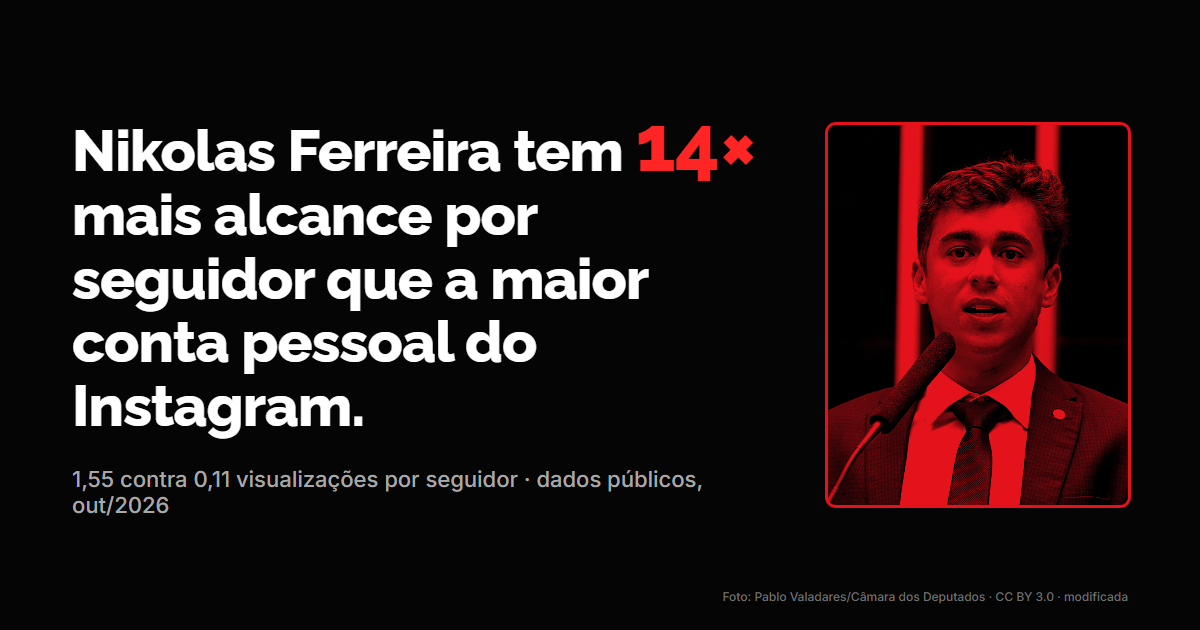
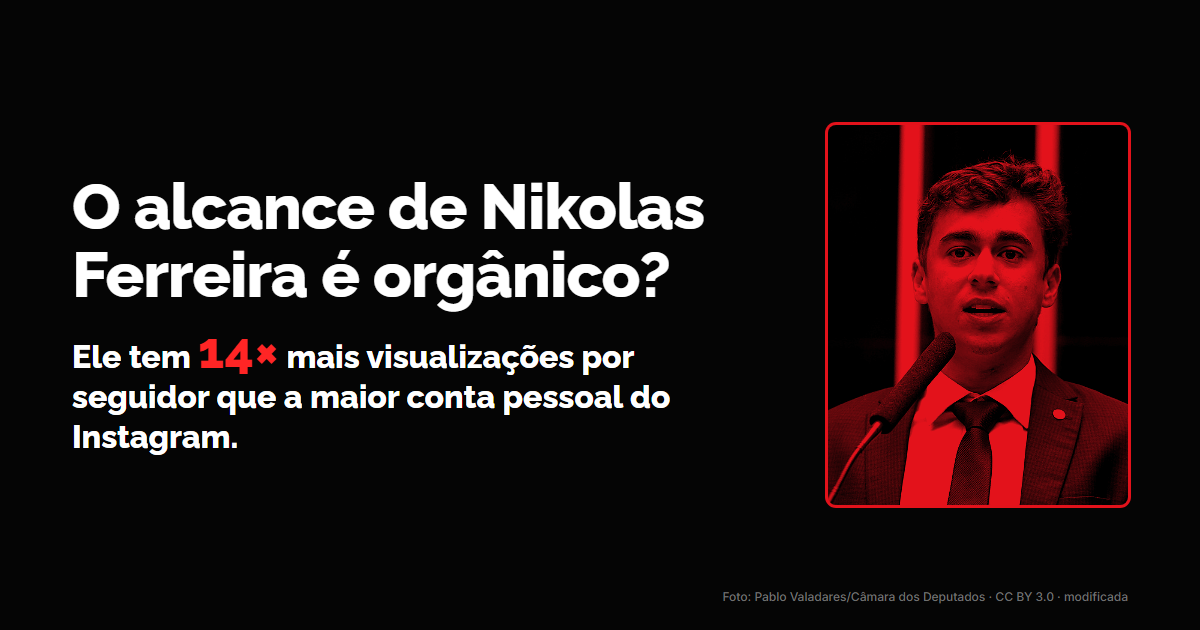
Manchete em pergunta + seção Contexto
- Topo: "O alcance de Nikolas Ferreira é orgânico?" com o 14× na linha fina
- Seção Contexto com Estadão (20/10) e g1 (19/10), antes de Como interpretar
- Como interpretar abre com a resposta curta
- Metodologia cita o incidente de contagem de visualizações de 7/10
- Imagem de compartilhamento e meta tags com a pergunta

Changed region(s): [[0.0617, 0.181, 0.6475, 0.8143]]

diff --git a/landing/index.html b/landing/index.html
@@ -3,27 +3,27 @@
 <head>
   <meta charset="utf-8">
   <meta name="viewport" content="width=device-width, initial-scale=1">
-  <title>Nikolas Ferreira tem 14× mais alcance por seguidor que a maior conta pessoal do Instagram.</title>
-  <meta name="description" content="Cristiano Ronaldo tem 680 milhões de seguidores, e o vídeo típico dele chega a 74 milhões de visualizações. Nikolas tem 24,7 milhões e chega a 38 milhões.">
+  <title>O alcance de Nikolas Ferreira é orgânico?</title>
+  <meta name="description" content="Ele tem 14× mais visualizações por seguidor que a maior conta pessoal do Instagram. Análise independente de dados públicos do Instagram.">
   <meta property="og:type" content="article">
   <meta property="og:locale" content="pt_BR">
-  <meta property="og:title" content="Nikolas Ferreira tem 14× mais alcance por seguidor que a maior conta pessoal do Instagram.">
-  <meta property="og:description" content="Cristiano Ronaldo tem 680 milhões de seguidores, e o vídeo típico dele chega a 74 milhões de visualizações. Nikolas tem 24,7 milhões e chega a 38 milhões.">
+  <meta property="og:title" content="O alcance de Nikolas Ferreira é orgânico?">
+  <meta property="og:description" content="Ele tem 14× mais visualizações por seguidor que a maior conta pessoal do Instagram. Com 27 vezes menos seguidores, ele chega à metade das visualizações de Cristiano Ronaldo.">
   <meta property="og:url" content="https://edurohr1.github.io/AlgoDeErrado/landing/">
   <meta property="og:image" content="https://edurohr1.github.io/AlgoDeErrado/landing/img/og.png">
   <meta property="og:image:width" content="1200">
   <meta property="og:image:height" content="630">
-  <meta property="og:image:alt" content="Nikolas Ferreira tem 14× mais alcance por seguidor que a maior conta pessoal do Instagram.">
+  <meta property="og:image:alt" content="O alcance de Nikolas Ferreira é orgânico? Ele tem 14× mais visualizações por seguidor que a maior conta pessoal do Instagram.">
   <meta name="twitter:card" content="summary_large_image">
-  <meta name="twitter:title" content="Nikolas Ferreira tem 14× mais alcance por seguidor que a maior conta pessoal do Instagram.">
-  <meta name="twitter:description" content="Cristiano Ronaldo tem 680 milhões de seguidores, e o vídeo típico dele chega a 74 milhões de visualizações. Nikolas tem 24,7 milhões e chega a 38 milhões.">
+  <meta name="twitter:title" content="O alcance de Nikolas Ferreira é orgânico?">
+  <meta name="twitter:description" content="Ele tem 14× mais visualizações por seguidor que a maior conta pessoal do Instagram.">
   <meta name="twitter:image" content="https://edurohr1.github.io/AlgoDeErrado/landing/img/og.png">
   <link rel="canonical" href="https://edurohr1.github.io/AlgoDeErrado/landing/">
   <meta name="color-scheme" content="light">
   <link rel="preconnect" href="https://fonts.googleapis.com">
   <link rel="preconnect" href="https://fonts.gstatic.com" crossorigin>
   <link rel="stylesheet" href="https://fonts.googleapis.com/css2?family=Inter:wght@400;500;600;700&family=Raleway:wght@700;800&display=swap">
-  <link rel="stylesheet" href="style.css?v=202610202223">
+  <link rel="stylesheet" href="style.css?v=202610202237">
 </head>
 <body>
   <header class="cabecalho" id="cabecalho">
@@ -33,12 +33,11 @@
       <button class="menu-botao" id="menuBotao" type="button" aria-expanded="false" aria-controls="menu" aria-label="Abrir menu"><span></span><span></span><span></span></button>
       <nav class="menu" id="menu" aria-label="Seções">
         <a href="#achadosSecao">Resultados</a>
-        <a href="#perspectiva">Perspectiva</a>
         <a href="#interacao">Interação</a>
         <a href="#regularidade">Regularidade</a>
         <a href="#famosos">Famosos</a>
-        <a href="#secIdade">Idade dos vídeos</a>
         <a href="#pistas">Pistas</a>
+        <a href="#contexto">Contexto</a>
         <a href="#interpretar">Como interpretar</a>
         <a href="#metodologia">Metodologia</a>
       </nav>
@@ -51,7 +50,8 @@
     <div class="wrap hero-grade">
       <div class="hg-titulo">
         <p class="eyebrow">Análise de dados · Instagram · out/2026</p>
-        <h1 id="titulo">Nikolas Ferreira tem 14× mais alcance por seguidor que a maior conta pessoal do Instagram.</h1>
+        <h1 id="titulo">O alcance de Nikolas Ferreira é orgânico?</h1>
+        <p class="hero-linha" id="heroLinha">Ele tem 14× mais visualizações por seguidor que a maior conta pessoal do Instagram.</p>
         <p class="hero-gancho" id="heroGancho"></p>
         <p class="hero-sub" id="heroSub"></p>
       </div>
@@ -201,8 +201,16 @@
       <details class="regras"><summary>Como o tom foi classificado</summary><p>Classificação automática por palavras-chave e emojis, na ordem: <strong>crítica</strong> (linguagem negativa ou ofensiva, nem sempre dirigida ao dono do perfil) → <strong>apoio</strong> (elogios, agradecimentos, emojis como 🙏👏❤🇧🇷) → <strong>pergunta</strong> (tem “?”) → <strong>neutro</strong>. Comentários com 20+ caracteres que aparecem idênticos 2 ou mais vezes na amostra do perfil contam como <strong>repetitivos</strong> (copia-e-cola). A amostra são os ~15 comentários mais recentes de cada vídeo que vieram na coleta. Ironia e sarcasmo não são detectados, então a crítica tende a ficar subestimada. Nenhum nome de usuário ou texto de comentário é publicado: só as porcentagens. Perfis com comentários majoritariamente em outros idiomas (Cristiano e Messi) ficaram de fora.</p></details>
     </section>
 
+    <section class="painel contexto" id="contexto">
+      <h2>Contexto</h2>
+      <p>Em 20/10/2026, o Conselho de Supervisão da Meta disse estar preocupado com “falhas recorrentes” na moderação de conteúdo eleitoral no Brasil e cobrou mais transparência da empresa. Na mesma reportagem, a Meta reconhece um “incidente técnico de alcance global” que bloqueou a contagem de visualizações em 7 de outubro, das 1h50 às 19h49, e nega ter favorecido qualquer candidatura (<a href="https://www.estadao.com.br/politica/conselho-da-meta-aponta-falhas-recorrentes-em-moderacao-eleitoral-no-brasil/" target="_blank" rel="noopener">Estadão</a>).</p>
+      <p>Em 19/10/2026, o ministro Marco Aurélio Bellizze, do TSE, deu 24 horas para a Meta comprovar que cumpriu a decisão que exige igualdade na distribuição de conteúdos políticos e de anúncios no segundo turno, incluindo esclarecimentos sobre os sistemas de recomendação. Tanto Lula quanto Flávio Bolsonaro acionaram a Justiça Eleitoral alegando que seus conteúdos foram prejudicados (<a href="https://g1.globo.com/politica/eleicoes/2026/noticia/2026/10/19/tse-da-24h-para-meta-comprovar-medidas-tomadas-para-garantir-igualdade-entre-campanhas.ghtml" target="_blank" rel="noopener">g1</a>).</p>
+      <p><strong>Essas notícias não tratam do Nikolas Ferreira. Elas mostram por que a forma como o algoritmo distribui conteúdo político está em debate agora.</strong></p>
+    </section>
+
     <section class="painel interpretar" id="interpretar">
       <h2>Como interpretar</h2>
+      <p class="resposta-curta" id="respostaCurta"><strong>Resposta curta:</strong> com dados públicos, não dá para cravar. O que dá para ver de fora não tem sinal de robôs: as curtidas acompanham as visualizações, e nenhum dos 24 vídeos sai do padrão. O que não dá para ver é como o algoritmo do Instagram decide mostrar esses vídeos a quem não segue a conta, e é exatamente isso que o TSE está cobrando da Meta.</p>
       <p class="sub">Ter muito mais visualizações do que seguidores é uma anomalia estatística em relação aos outros perfis, não uma prova de nada. Há várias explicações comuns e legítimas, e elas podem atuar juntas:</p>
       <ul>
         <li><strong>Distribuição do algoritmo para não seguidores:</strong> o Instagram recomenda vídeos na aba Reels e no Explorar para quem não segue o perfil. Quando um vídeo retém bem a atenção, ele pode alcançar várias vezes a base de seguidores.</li>
@@ -240,6 +248,7 @@
         <li><strong>Mediana em vez de média</strong> para visualizações: um único viral distorce a média, e a mediana mostra o desempenho de um vídeo típico. A média também aparece na tabela.</li>
         <li><strong>Engajamento</strong> = (curtidas + comentários) ÷ visualizações, calculado vídeo a vídeo e depois tirada a média. Vídeos com curtidas ocultas contam como 0 curtidas.</li>
         <li><strong>Grupos:</strong> as comparações e médias são feitas dentro de cada grupo (políticos, famosos brasileiros, famosos globais), nunca misturando grupos.</li>
+        <li><strong>Contadores do Instagram:</strong> em outubro de 2026, a Meta reconheceu um incidente técnico global que bloqueou a contagem de visualizações de publicações em 7 de outubro, das 1h50 às 19h49 (<a href="https://www.estadao.com.br/politica/conselho-da-meta-aponta-falhas-recorrentes-em-moderacao-eleitoral-no-brasil/" target="_blank" rel="noopener">Estadão, 20/10/2026</a>). Falhas desse tipo podem afetar os contadores públicos usados nesta análise.</li>
         <li><strong>Limitações:</strong> a amostra é pequena (12 vídeos), a coleta foi em período eleitoral (alta atividade) e as visualizações são as reportadas pelo próprio Instagram. Para os perfis que postam dezenas de vídeos por dia, foi preciso coletar mais vídeos até chegar a 12 com 3 dias ou mais.</li>
       </ul>
     </section>
@@ -256,10 +265,10 @@
 
   <script src="https://cdnjs.cloudflare.com/ajax/libs/Chart.js/4.4.1/chart.umd.min.js"></script>
   <script src="dados.js?v=mvhd5lqb"></script>
-  <script src="info.js?v=202610202223"></script>
-  <script src="app.js?v=202610202223"></script>
-  <script src="destaque.js?v=202610202223"></script>
-  <script src="pistas.js?v=202610202223"></script>
-  <script src="nav.js?v=202610202223"></script>
+  <script src="info.js?v=202610202234"></script>
+  <script src="app.js?v=202610202234"></script>
+  <script src="destaque.js?v=202610202234"></script>
+  <script src="pistas.js?v=202610202234"></script>
+  <script src="nav.js?v=202610202234"></script>
 </body>
 </html>

diff --git a/landing/style.css b/landing/style.css
@@ -576,3 +576,19 @@ button.info:hover, button.info:focus-visible, button.info[aria-expanded="true"] 
   .vb-par { height: 190px; }
   .vb-trilho { height: 130px; }
 }
+
+/* ===== Manchete em pergunta + linha fina com o 14× ===== */
+.hero-escuro .hero-linha { margin: 14px 0 0; font-family: var(--fonte-titulo); font-weight: 800; font-size: clamp(20px, 2.4vw, 30px); line-height: 1.25; color: #fff; max-width: 32ch; }
+.hero-escuro .hero-linha .titulo-x { font-size: 1.6em; line-height: .8; color: #ff2525; text-shadow: 0 0 30px rgba(255, 37, 37, .35); letter-spacing: -.03em; }
+.hero-escuro .hero-gancho { font-weight: 600; color: #e6e6e6; }
+
+/* ===== Contexto e resposta curta ===== */
+.contexto { border-left: 4px solid #0b0b0b; }
+.contexto p { margin: 0 0 12px; max-width: 75ch; line-height: 1.6; }
+.contexto p:last-child { margin-bottom: 0; }
+.resposta-curta { margin: 12px 0 18px; padding: 14px 16px; background: var(--bg-alt); border-left: 4px solid var(--accent); border-radius: 4px; font-size: 16px; line-height: 1.6; max-width: 75ch; }
+@media (max-width: 600px) { .hero-escuro .hero-linha { font-size: 20px; } }
+.hero-escuro h1 { font-size: clamp(30px, 5vw, 58px); line-height: 1.08; }
+@media (max-width: 600px) { .hero-escuro h1 { font-size: 30px; } }
+.hero-escuro .hero-linha .titulo-x { font-style: normal; }
+.hg-cards li .hc-num { flex: none; }

diff --git a/landing/app.js b/landing/app.js
@@ -53,8 +53,8 @@
   const vpsTxt = n => fmtDec(n) + (n >= 1.995 ? ' visualizações' : ' visualização');
   if (cr7) {
     const vezesCr7 = Math.floor(nik.medianaViewsPorSeguidor / cr7.medianaViewsPorSeguidor);
-    document.getElementById('titulo').innerHTML =
-      `Nikolas Ferreira tem <em class="titulo-x">${vezesCr7}×</em> mais alcance por seguidor que a maior conta pessoal do Instagram.`;
+    document.getElementById('heroLinha').innerHTML =
+      `Ele tem <em class="titulo-x">${vezesCr7}×</em> mais visualizações por seguidor que a maior conta pessoal do Instagram.`;
     document.getElementById('heroSub').textContent =
       `Cristiano Ronaldo tem ${milhoesRedondo(cr7.seguidores)} de seguidores, e o vídeo típico dele chega a ${milhoesRedondo(cr7.medianaViews)} de visualizações. ` +
       `Nikolas tem ${milhoesTxt(nik.seguidores)} e chega a ${milhoesRedondo(nik.medianaViews)}.`;
